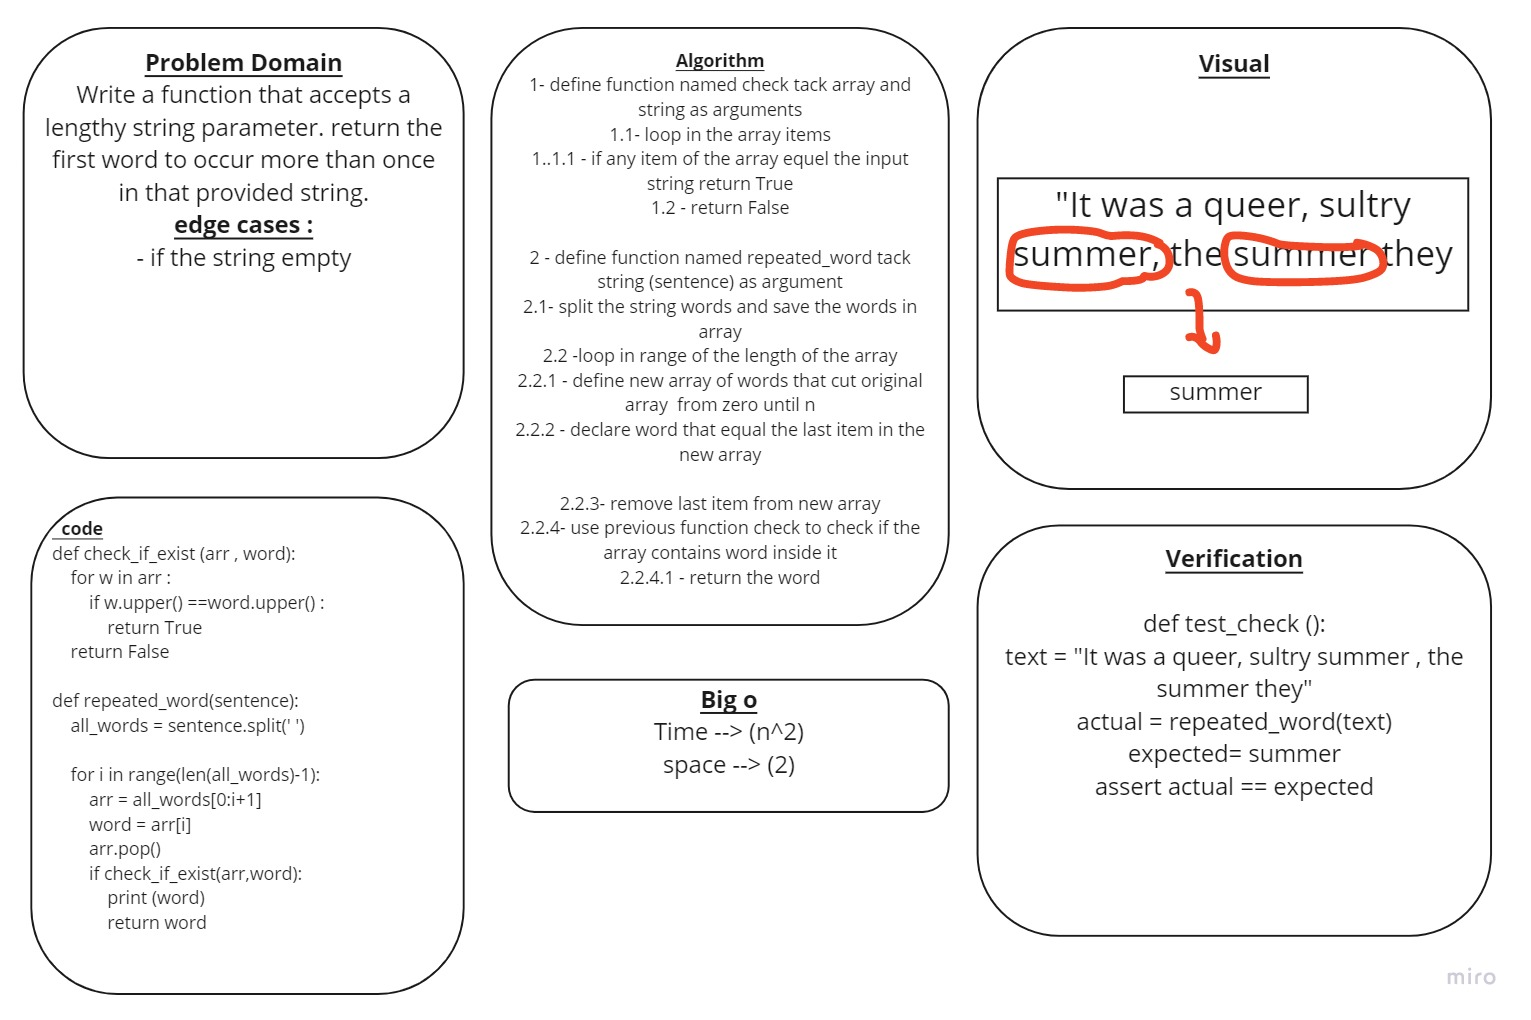
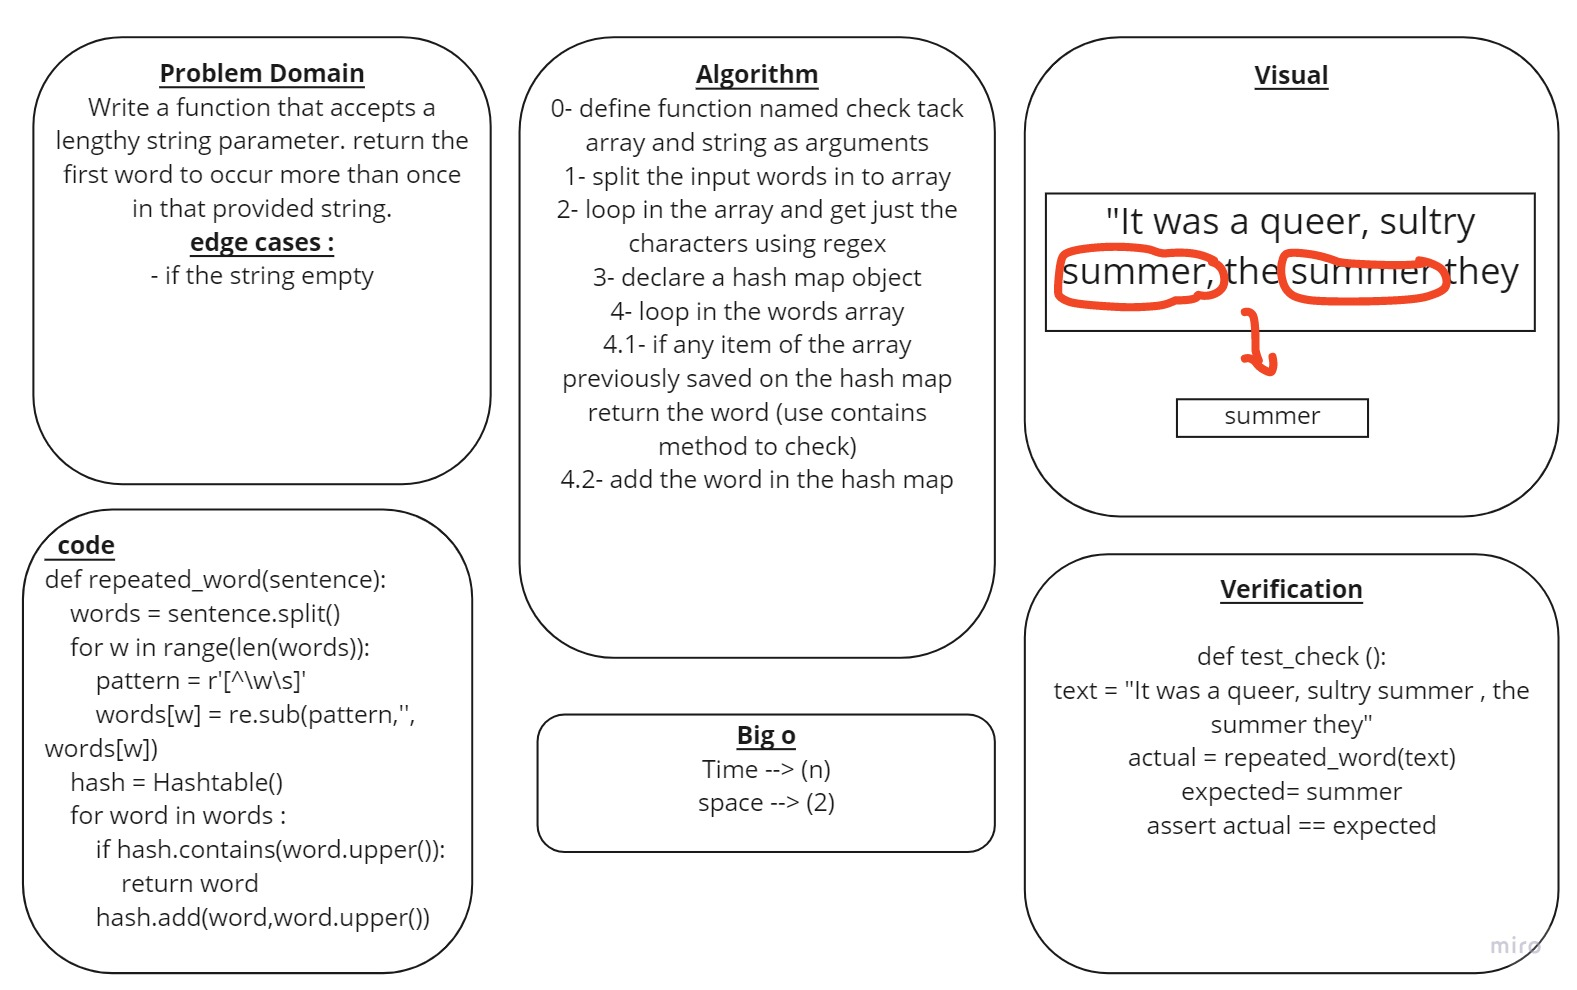
edit ch-31

diff --git a/python/repeated_word/hashtable.py b/python/repeated_word/hashtable.py
@@ -1,0 +1,98 @@
+# Helper classes
+class Node:
+  def __init__(self, data):
+    self.data=data
+    self.next=None
+
+
+class LinkedList:
+
+    def __init__(self):
+        # initialization here
+        self.head=None
+
+    # adds a new node with the given value to the end of the list
+    def insert (self, value):
+      new_node = Node(value)
+      if self.head is None :
+        self.head = new_node
+        self.first_node = new_node
+        return 0
+
+      current_node =self.head
+      while current_node.next :
+        current_node=current_node.next
+      current_node.next=new_node
+
+    def includes (self, key):
+        current_node =self.head
+
+        while current_node:
+            if key == current_node.data:
+                return True
+            current_node=current_node.next
+        return False
+
+    def __str__ (self):
+        current_node =self.head
+        text =''
+        while current_node:
+            text = text + '{ ' + current_node.data + ' } -> '
+            current_node=current_node.next
+        text = text + ' -> NULL'
+        return text
+
+# &&&&&&&&&&&&&&&&&&&&&&&&&&&&&&&&&&&&&&&&&&&&&&&&&&&&&&&&&&&&&&&&&&&&&&&&
+
+
+class Hashtable :
+    def __init__(self, size =1024):
+        self.size = size
+        self.buckets = []
+        for i in range(size):
+            self.buckets.append(None)
+
+    def hash(self,key):
+        # The same key should always produce the same hash code.
+        sum = 0
+        for char in key :
+            sum+=ord(char)
+        sum = (sum*23) % self.size
+        return sum
+
+    def add(self,value,key):
+        hashed_key = self.hash(key)
+        if not self.buckets[hashed_key]:
+            self.buckets[hashed_key] = LinkedList()
+        self.buckets[hashed_key].insert([key,value])
+        return True
+
+    def get(self,key):
+        hashed_key = self.hash(key)
+        node = self.buckets[hashed_key]
+        if not node :
+            return None
+        node = self.buckets[hashed_key].head
+        while node:
+            if key == node.data[0] :
+                return node.data[1]
+            node = node.next
+
+    def contains(self,key):
+        hashed_key = self.hash(key)
+        if self.buckets[hashed_key] :
+            return True
+        return False
+
+    def __str__(self):
+        return str(self.buckets)
+
+
+
+
+
+if __name__ == "__main__":
+    hashtable = Hashtable()
+    # hashtable.add('vale_1','key')
+    print(hashtable.hash('za'))
+

diff --git a/python/repeated_word/repeated_word.py b/python/repeated_word/repeated_word.py
@@ -1,52 +1,24 @@
-def check_if_exist (arr , word):
-    for w in arr :
-        if w.upper() ==word.upper() :
-            return True
-    return False
+import re
+
+try :
+    from hashtable import Hashtable
+except:
+    from repeated_word.hashtable import Hashtable
+
+
 
 def repeated_word(sentence):
-    all_words = sentence.split(' ')
-
-    for i in range(len(all_words)-1):
-        arr = all_words[0:i+1]
-        word = arr[i]
-        arr.pop()
-        # print(arr)
-        # print(all_words[i])
-        if check_if_exist(arr,word):
-            print (word)
+    words = sentence.split()
+    for w in range(len(words)):
+        pattern = r'[^\w\s]'
+        words[w] = re.sub(pattern,'', words[w])
+    hash = Hashtable()
+    for word in words :
+        if hash.contains(word.upper()):
             return word
-        # print ('\n','-------','\n')
-
-
-    # for i in range(len(w)-1):
-
-    #     words = w[0:i+1]
-
-    #     for word in words :
-    #         if check_if_exist(words,word) :
-    #             return word
+        hash.add(word,word.upper())
 
 
 if __name__ == "__main__" :
     w = repeated_word("It was a queer, sultry summer, the summer they electrocuted the Rosenbergs, and I didn’t know what I was doing in New York...")
     print(w)
-
-
-
-# def repeated_word(sentence):
-#     sentence_arr = sentence.split(',')
-#     first_sentence = sentence_arr[1].split(' ')
-
-#     for word in first_sentence :
-#         print ('--word-- :',word)
-#         check = True
-#         for i in sentence_arr:
-#             ii = i.split(' ')
-#             print ('--arr-- :',ii)
-#             print ('--check--',check_if_exist(ii,word))
-
-#             if not check_if_exist(ii,word):
-#                 check = False
-#         if check :
-#             return word

diff --git a/python/repeated_word/README.md b/python/repeated_word/README.md
@@ -6,17 +6,17 @@ Example : "Once upon a time, there was a brave princess who..." --> a
 
 ## Approach & Efficiency
 BigO :
-- Time : O(n^2)
+- Time : O(n)
 - Space : O(n)
 
 ## Solution
-- define function accept array and string for check if the String is exists in the array
-- define a repeated_word function which convert the string input in to array and loop in the array to match the repeated word using previous function check if the
+- define a repeated_word function which convert the string input in to array and loop in the array and then use hash map to add the words of the input and then check if the word is already existing
 
 #  Pull request :
 https://github.com/HamzhSuilik/data-structures-and-algorithms/pull/37
+https://github.com/HamzhSuilik/data-structures-and-algorithms/pull/40
 
-- [x] write check_if_exist function
+- [x] import hash map class
 - [x] write repeated_word function
 - [x] prepare README file
 - [x] prepare whiteboard
